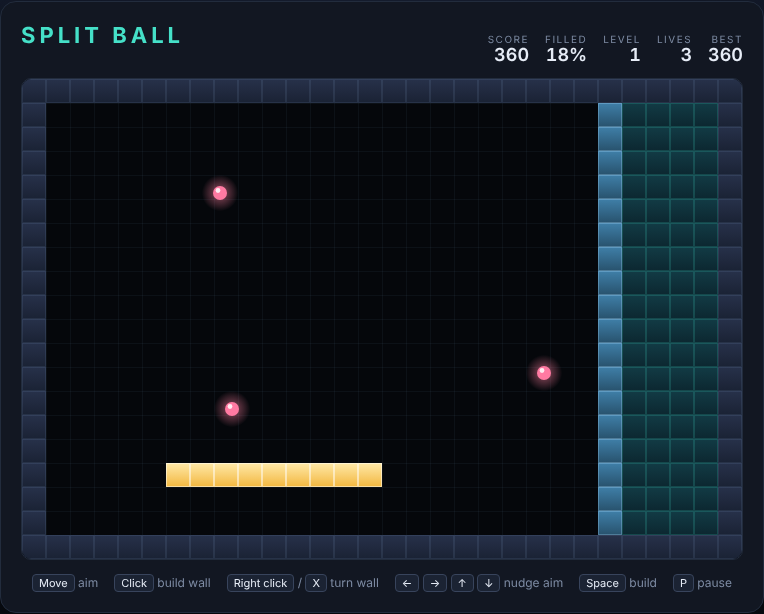
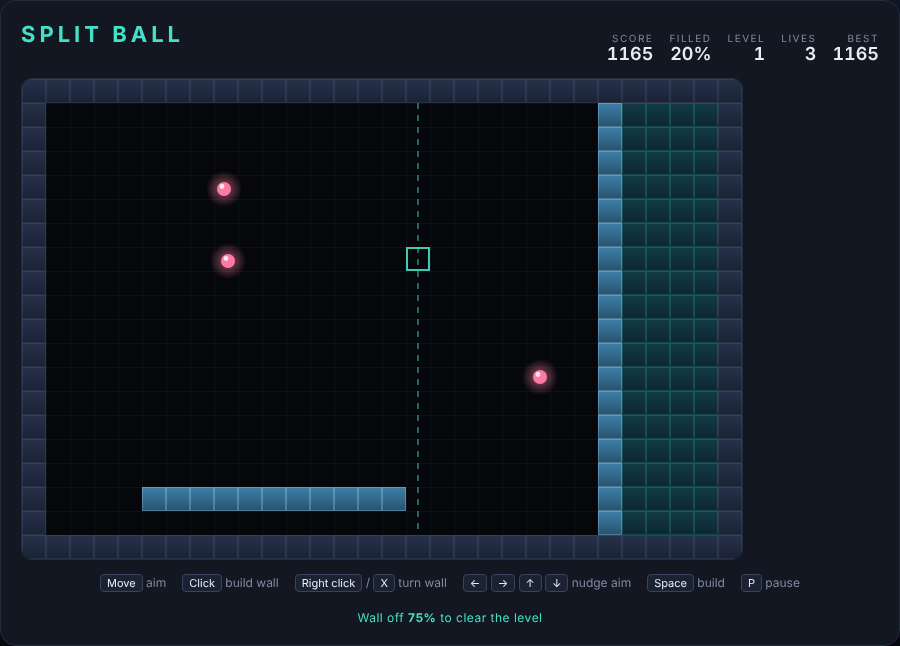
Polish Split Ball: shatter feedback, touch play, goal hint
- A shattered wall now leaves a red flash on the cells it occupied, fading and
  shrinking over half a second. The flash is aged inside step(dt) rather than
  from the clock, so a paused game stays frozen and the specs can assert the
  fade.
- The fill target is stated on the idle overlay and under the controls; the
  canvas opts into touch-action: manipulation so a tap builds without the
  double-tap delay. Tapping already worked through the synthesised click, and a
  spec in a touch-enabled context now pins that down.
- Screenshot regenerated to show the aim preview, captured territory and the
  goal line.

73 Playwright specs pass. A separate 120k-frame soak with a random bot (not
part of the suite) reported no page errors, no ball escaping into a solid cell,
no speed drift and no fill above 100%.

Marks the game Complete in the root README.

Claude-Session: https://claude.ai/code/session_01U2ec672PYM4gkQap6DHfxs

diff --git a/SplitBall/tests/split-ball.spec.js b/SplitBall/tests/split-ball.spec.js
@@ -620,6 +620,49 @@ test.describe('Split Ball', () => {
     });
 
     // -----------------------------------------------------------------------
+    // Feedback
+    // -----------------------------------------------------------------------
+    test.describe('feedback', () => {
+        test('a shattered wall leaves a flash behind', async ({ page }) => {
+            await startQuiet(page);
+            await parkBall(page, 15, 14);
+            await page.evaluate(() => buildWall(15, 10));
+            await advance(page, 20);
+            expect(await page.evaluate(() => wall)).toBeNull();
+            expect(await page.evaluate(() => effects.length)).toBe(1);
+            expect(await page.evaluate(() => effects[0].cells.length)).toBeGreaterThan(1);
+        });
+
+        test('the flash fades out', async ({ page }) => {
+            await startQuiet(page);
+            await parkBall(page, 15, 14);
+            await page.evaluate(() => buildWall(15, 10));
+            await advance(page, 20);
+            await advance(page, 60);
+            expect(await page.evaluate(() => effects.length)).toBe(0);
+        });
+
+        test('the help line names the fill target', async ({ page }) => {
+            await expect(page.locator('.help')).toContainText('75%');
+        });
+
+        test('autoplay runs without page errors', async ({ page }) => {
+            const errors = [];
+            page.on('pageerror', (e) => errors.push(String(e)));
+            page.on('console', (m) => m.type() === 'error' && errors.push(m.text()));
+            await page.evaluate(() => startGame());
+            // Let the real requestAnimationFrame loop run: this exercises draw(),
+            // which the hand-stepped specs never assert on.
+            await page.waitForTimeout(600);
+            await page.evaluate(() => {
+                buildWall(cursor.col, cursor.row);
+            });
+            await page.waitForTimeout(600);
+            expect(errors).toEqual([]);
+        });
+    });
+
+    // -----------------------------------------------------------------------
     // Input
     // -----------------------------------------------------------------------
     test.describe('input', () => {
@@ -676,6 +719,19 @@ test.describe('Split Ball', () => {
             await page.keyboard.press('ArrowLeft');
             await page.keyboard.press('ArrowUp');
             expect(await page.evaluate(() => [cursor.col, cursor.row])).toEqual([1, 1]);
+        });
+
+        test.describe('touch', () => {
+            test.use({ hasTouch: true });
+
+            test('tapping builds a wall at the tapped cell', async ({ page }) => {
+                await startQuiet(page);
+                await parkBall(page, 4, 10);
+                await parkBall(page, 25, 10);
+                const point = await cellPoint(page, 12, 7);
+                await page.touchscreen.tap(point.x, point.y);
+                expect(await page.evaluate(() => wall && [wall.col, wall.row])).toEqual([12, 7]);
+            });
         });
 
         test('Space builds a wall while playing', async ({ page }) => {

diff --git a/SplitBall/game.js b/SplitBall/game.js
@@ -15,6 +15,7 @@ const GROW_SPEED = 16;           // wall cells per second, per head
 const FILL_TARGET = 75;          // percent of the interior needed to clear
 const CAPTURE_POINTS = 5;        // per captured cell
 const LEVEL_BONUS = 250;         // x level
+const FLASH_TIME = 0.5;          // seconds a shattered wall glows red
 const START_LIVES = 3;
 const BEST_KEY = 'splitball-best';
 
@@ -31,6 +32,7 @@ let grid = [];
 let captured = [];
 let balls = [];
 let wall = null;
+let effects = [];                // fading flashes left by shattered walls
 let state = 'idle';              // idle | playing | paused | levelclear | over
 let score = 0;
 let level = 1;
@@ -76,6 +78,7 @@ function resetLevel() {
     }
     balls = [];
     wall = null;
+    effects = [];
     cursor = { col: Math.floor(COLS / 2), row: Math.floor(ROWS / 2) };
     updateHud();
 }
@@ -188,6 +191,7 @@ const wallHitByBall = () =>
 
 function destroyWall() {
     for (const [c, r] of wall.cells) grid[r][c] = OPEN;
+    effects.push({ cells: wall.cells, life: FLASH_TIME });
     wall = null;
 }
 
@@ -329,6 +333,9 @@ function moveCursor(dc, dr) {
 function step(dt) {
     if (state !== 'playing') return;
 
+    for (const fx of effects) fx.life -= dt;
+    if (effects.some((fx) => fx.life <= 0)) effects = effects.filter((fx) => fx.life > 0);
+
     for (const b of balls) moveBall(b, dt);
 
     if (!wall) return;
@@ -459,6 +466,15 @@ function draw() {
         }
     }
 
+    for (const fx of effects) {
+        const alpha = Math.max(0, fx.life / FLASH_TIME);
+        ctx.fillStyle = `rgba(255, 92, 92, ${0.55 * alpha})`;
+        for (const [c, r] of fx.cells) {
+            const pad = (1 - alpha) * 6;
+            ctx.fillRect(c * TILE + pad, r * TILE + pad, TILE - pad * 2, TILE - pad * 2);
+        }
+    }
+
     drawPreview();
 
     for (const b of balls) {
@@ -572,5 +588,9 @@ best = parseInt(localStorage.getItem(BEST_KEY) || '0', 10) || 0;
 resetLevel();
 state = 'idle';
 updateHud();
-showOverlay('SPLIT BALL', '', 'Press Space or click Start to play');
+showOverlay(
+    'SPLIT BALL',
+    `Wall off ${FILL_TARGET}% of the arena to clear a level`,
+    'Press Space or click Start to play'
+);
 requestAnimationFrame(frame);

diff --git a/SplitBall/style.css b/SplitBall/style.css
@@ -72,6 +72,7 @@ body {
 
 canvas {
     display: block;
+    touch-action: manipulation;
     border-radius: 10px;
     background: #05070b;
     border: 1px solid var(--edge);
@@ -148,4 +149,12 @@ kbd {
     color: var(--ink);
     font-family: inherit;
     font-size: 11px;
+}
+
+.help .goal {
+    width: 100%;
+    text-align: center;
+    margin-top: 2px;
+    color: var(--accent);
+    letter-spacing: 0.5px;
 }

diff --git a/SplitBall/index.html b/SplitBall/index.html
@@ -36,6 +36,7 @@
             <p><kbd>←</kbd> <kbd>→</kbd> <kbd>↑</kbd> <kbd>↓</kbd> nudge aim</p>
             <p><kbd>Space</kbd> build</p>
             <p><kbd>P</kbd> pause</p>
+            <p class="goal">Wall off <strong>75%</strong> to clear the level</p>
         </div>
     </main>
 

diff --git a/SplitBall/DESIGN.md b/SplitBall/DESIGN.md
@@ -80,8 +80,9 @@ opposite directions — up/down for a vertical wall, left/right for a horizontal
 one — at `GROW_SPEED` cells per second, driven by an accumulator so growth is
 frame-rate independent. A head stops ("blocks") when the next cell is solid.
 
-Each `step(dt)` runs the same four phases, and the order matters:
+Each `step(dt)` runs the same phases, and the order matters:
 
+0. **Age the flashes** left behind by shattered walls (see *Feedback*).
 1. **Move the balls** against solid cells only — pending cells are not solid, a
    ball flies straight through a half-built wall.
 2. **Grow the wall** by whatever whole cells the accumulator has earned.
@@ -109,6 +110,16 @@ is cleared.
 With one wall at a time and only a few hundred cells, a full flood fill per
 commit is a handful of microseconds — there is no reason to do anything cleverer
 than the obvious BFS.
+
+## Feedback
+
+A shattered wall pushes `{ cells, life }` onto `effects`, and `step` counts
+`life` down to zero over `FLASH_TIME` (0.5 s). The renderer draws those cells as
+a red square that both fades and shrinks, so a wall that dies off-screen-centre
+still tells you *where* it died. Effects are purely cosmetic — they hold no
+grid state and are cleared with the level — but they are aged inside `step`
+rather than from the clock so that a paused game is genuinely frozen and the
+specs can assert on the fade.
 
 ## States
 
@@ -154,7 +165,7 @@ The best score is persisted in `localStorage` under `splitball-best`.
 | `index.html` | HUD, canvas, overlay, help line |
 | `style.css` | the shared arcade panel look used across this repo |
 | `game.js` | the whole game: grid, balls, walls, capture, input, render |
-| `tests/split-ball.spec.js` | the Playwright suite |
+| `tests/split-ball.spec.js` | the Playwright suite — 73 specs |
 
 ## Assumptions
 
@@ -178,6 +189,11 @@ These are the ambiguous calls, each resolved the simpler way:
    geometry prettier and the game less readable; the classic is diagonal-only.
 7. **Fill target is a flat 75%** at every level. Difficulty ramps through ball
    count and speed instead, which is one dial rather than three.
-8. **Nothing is seeded.** Ball spawn positions use `Math.random()`. Every spec
+8. **Touch is the click path.** Browsers synthesise a `click` from a tap, so
+   the canvas click handler is all a phone needs; the CSS sets
+   `touch-action: manipulation` to drop the 300 ms double-tap delay. There is
+   no separate touch code to keep in step, and a spec runs in a touch-enabled
+   context to keep it that way.
+9. **Nothing is seeded.** Ball spawn positions use `Math.random()`. Every spec
    that needs determinism clears `balls` and places its own, so no seeded RNG is
    required.

diff --git a/SplitBall/README.md b/SplitBall/README.md
@@ -53,9 +53,9 @@ Your best score is kept in the browser's local storage.
 npx playwright test SplitBall/tests/
 ```
 
-68 Playwright specs cover ball physics and bouncing, wall growth and
+73 Playwright specs cover ball physics and bouncing, wall growth and
 frame-rate independence, region capture, wall shattering, lives, level clear,
-pausing and every input path. The game exposes `step(dt)` and an `autoStep`
+pausing, mouse, keyboard and touch input. The game exposes `step(dt)` and an `autoStep`
 flag, so the suite advances the simulation itself and never sleeps.
 
 `DESIGN.md` explains how the code works.

diff --git a/README.md b/README.md
@@ -142,7 +142,7 @@ For each new game, put it in a new folder. Each game should have its own README.
 | Canyon Raider | [CanyonRaider/](CanyonRaider/) | Complete |
 | Air Traffic Control | [AirTrafficControl/](AirTrafficControl/) | Complete |
 | Gold Runner | [GoldRunner/](GoldRunner/) | Complete |
-| Split Ball | [SplitBall/](SplitBall/) | In Progress |
+| Split Ball | [SplitBall/](SplitBall/) | Complete |
 
 ## Playing
 
